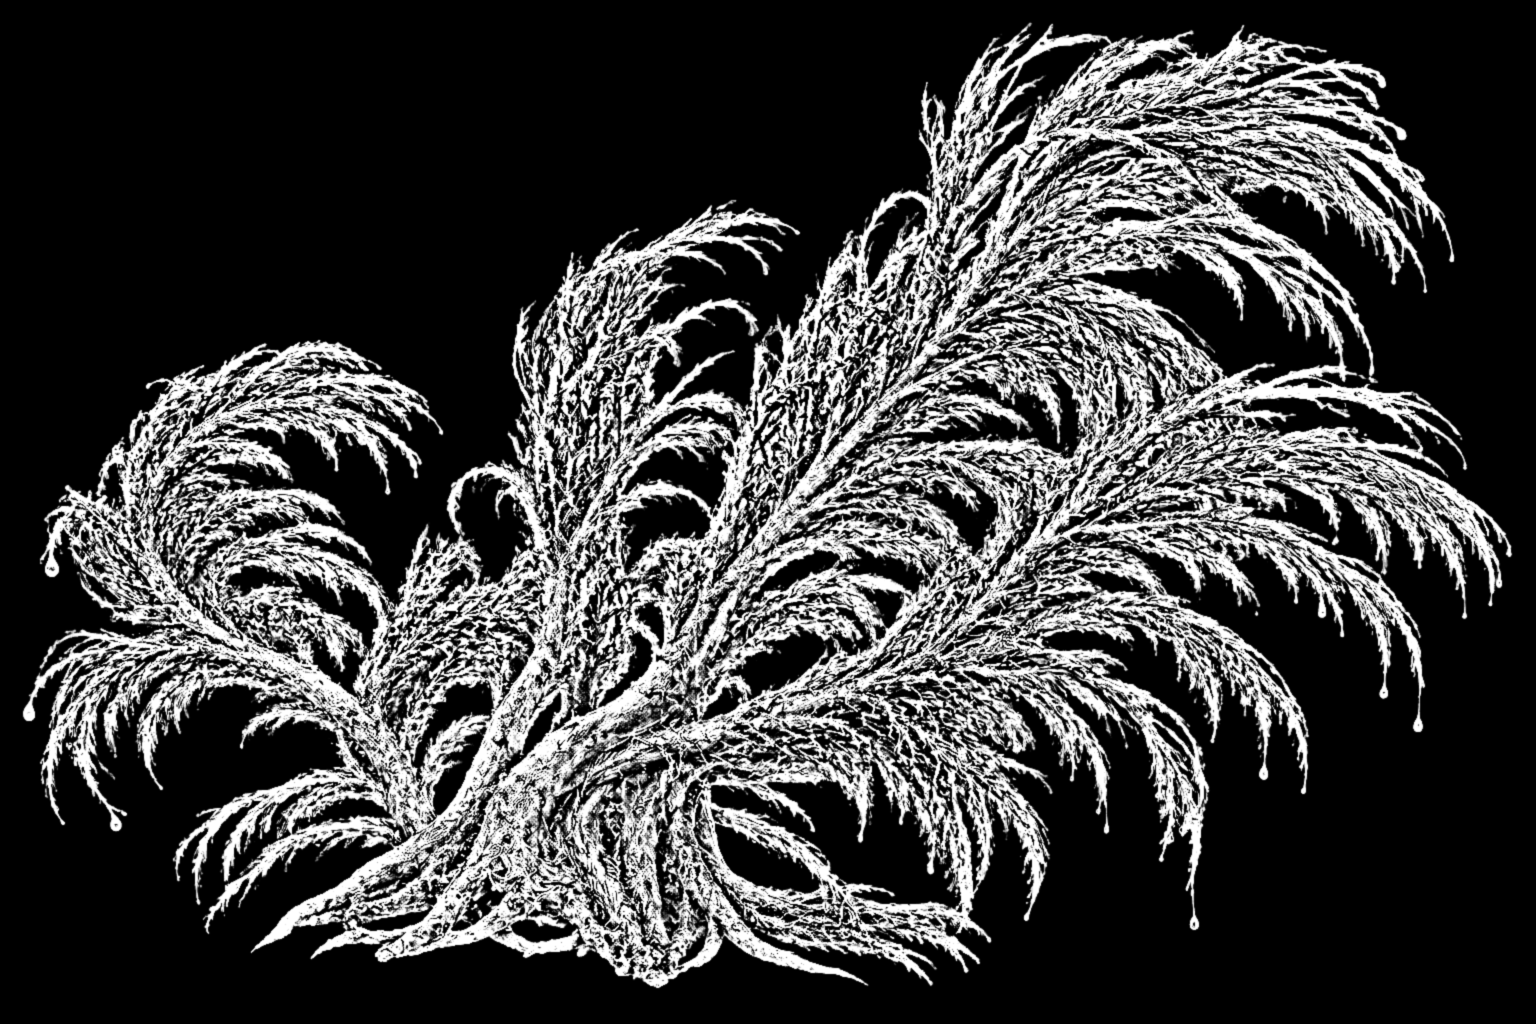
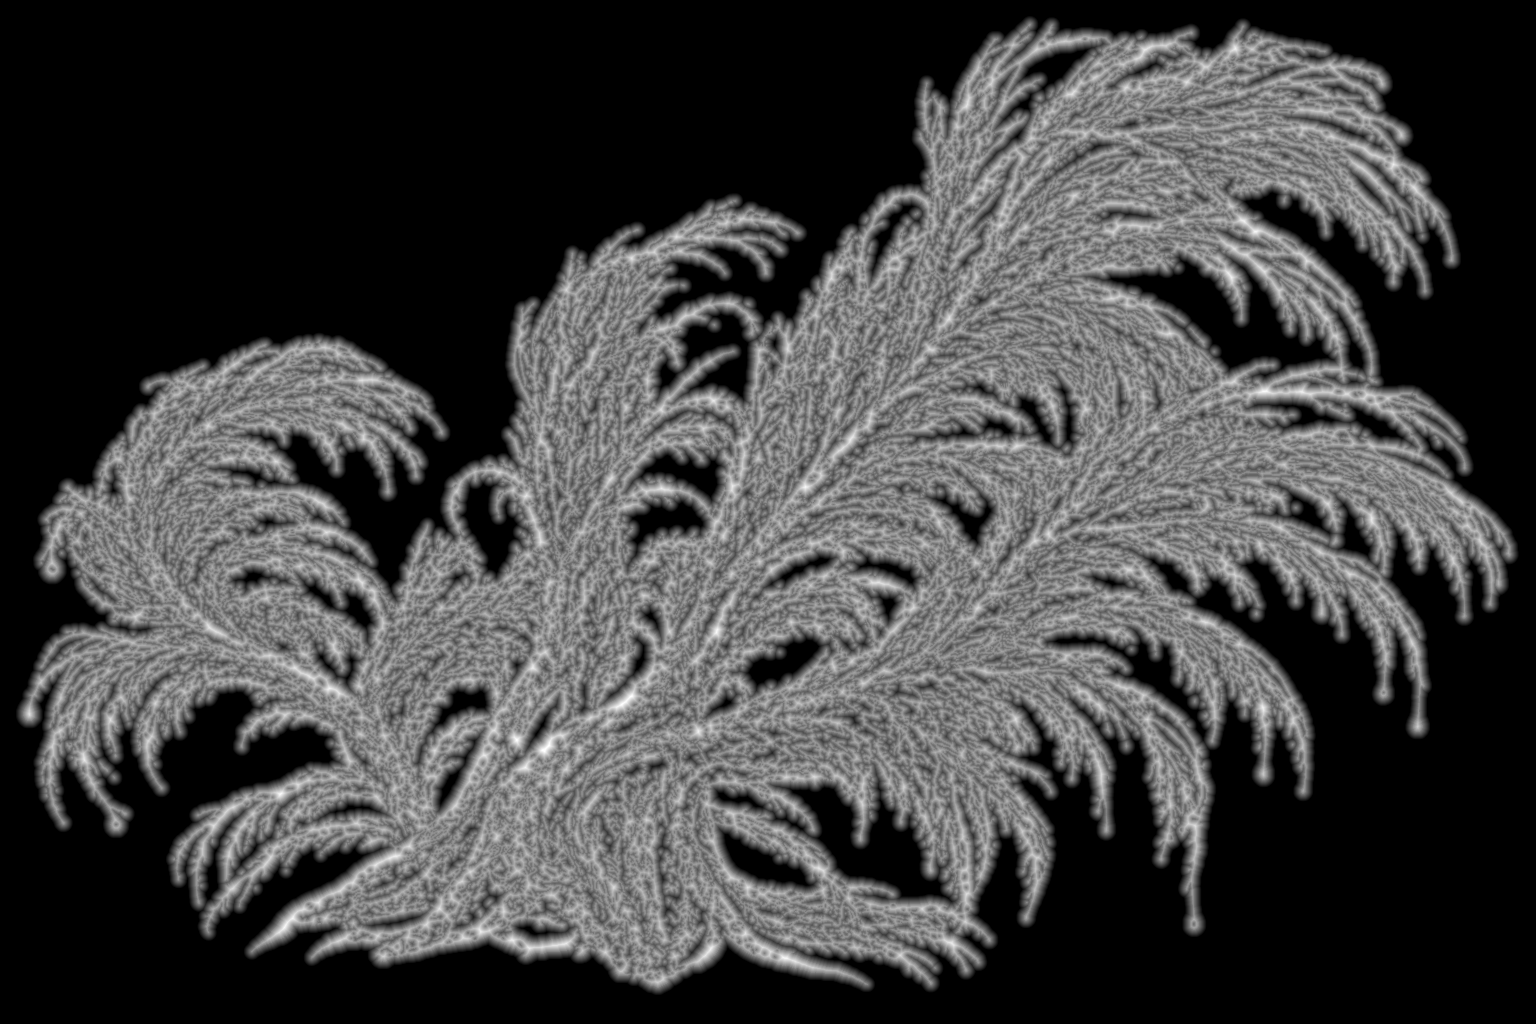
Breath life: plume cover as a distance, broken sprays, tassel in locks, calm water, dead one larger, channel greyer

diff --git a/src/places/breath/water/shaders.ts b/src/places/breath/water/shaders.ts
@@ -68,12 +68,12 @@ void main() {
   // Near the lens the small ripples show one by one.
   float close = smoothstep(120.0, 8.0, far);
   // The wind does not lie evenly on it: it is ruffled in patches that drift, and between them it is nearly glass.
-  float gust = smoothstep(0.3, 0.72, 0.65 * vnoise(xz * 0.13 + vec2(uTime * 0.035, uTime * 0.011)) + 0.35 * vnoise(xz * 0.61 - vec2(uTime * 0.05, 0.0)));
+  float gust = smoothstep(0.45, 0.8, 0.65 * vnoise(xz * 0.13 + vec2(uTime * 0.035, uTime * 0.011)) + 0.35 * vnoise(xz * 0.61 - vec2(uTime * 0.05, 0.0)));
   if (close > 0.0) {
     // Two sheets of them of unlike size and bearing, so no square of either shows.
     vec2 ra = texture2D(tRipple, vec2(xz.x * 0.829 - xz.y * 0.559, xz.x * 0.559 + xz.y * 0.829) * 0.37 + drift.yx * uTime * 0.07).rg - 0.5;
     vec2 rb = texture2D(tRipple, vec2(xz.x * 0.391 + xz.y * 0.92, -xz.x * 0.92 + xz.y * 0.391) * 0.113 + drift * uTime * 0.031).rg - 0.5;
-    slope = slope * (1.0 - 0.6 * close) + (ra * 0.55 + rb * 1.15) * close * (0.45 + 0.55 * deep) * (0.22 + 1.0 * gust);
+    slope = slope * (1.0 - 0.75 * close) + (ra * 0.4 + rb * 1.15) * close * (0.45 + 0.55 * deep) * (0.05 + 1.1 * gust);
   }
   // A hand's depth of water over a plate cannot carry a wave: it lies nearly flat, and shows the sky whole.
   slope *= 0.5 + 0.5 * smoothstep(0.02, 0.2, depth);
@@ -84,12 +84,12 @@ void main() {
 
   float nv = clamp(dot(n, v), 0.0, 1.0);
   // Water with small waves on it never mirrors whole, however low the eye: seen far off it shows the tilted faces, and they show more of the water's own colour.
-  float fresnel = min(0.02 + 0.98 * pow(1.0 - nv, 5.0), mix(0.62, 0.2, smoothstep(10.0, 90.0, far)));
+  float fresnel = min(0.02 + 0.98 * pow(1.0 - nv, 5.0), mix(0.62, 0.45, smoothstep(10.0, 90.0, far)));
   vec3 r = reflect(-v, n);
   r.y = abs(r.y) + 0.02 + 0.3 * smoothstep(8.0, 100.0, far);
   r = normalize(r);
   // Under a haze the water gives back less than the sky it faces: every small wave face shows some of the dark bed.
-  vec3 mirror = 0.6 * skyRadiance(r) * skyOpen(vWorld);
+  vec3 mirror = 0.7 * skyRadiance(r) * skyOpen(vWorld);
   // A face tipped toward the lens shows the dim sky overhead, one tipped away the bright fog at the horizon: that is what draws every ripple and ring.
   float tip = dot(slope - g3.rg * 0.1, normalize(v.xz));
   float drawn = 1.0 - 0.85 * tanh(3.4 * tip);
@@ -112,7 +112,7 @@ void main() {
   mirror += sunGlitter(r, far) * sunHere;
   // Sparks: here and there a facet smaller than a ripple turns the sun to the lens for a moment, far outside its path. Each is a point that lives a tenth of a second.
   float px = far * 2.0 / (uFrame.y * 1.6);
-  float lobe = pow(max(dot(r, uSunDir), 0.0), 5.0) * (0.3 + 0.7 * gust) * (0.4 + 2.2 * rings.b);
+  float lobe = pow(max(dot(r, uSunDir), 0.0), 22.0) * (0.3 + 0.7 * gust) * (0.4 + 2.2 * rings.b);
   float sparks = 0.0;
   float seen = smoothstep(0.012, 0.004, px);
   if (seen > 0.0 && lobe > 0.002) {
@@ -123,7 +123,7 @@ void main() {
       vec2 cellAt = xz / 0.022 + float(o) * 17.3;
       vec2 id = floor(cellAt);
       vec2 rnd = hash22(id + slot * 7.13);
-      float on = step(1.0 - 0.24 * lobe, hash12(id * 1.37 + slot * 3.1));
+      float on = step(1.0 - 0.14 * lobe * (0.25 + 0.75 * gust), hash12(id * 1.37 + slot * 3.1));
       float dot_ = smoothstep(0.34, 0.1, length(fract(cellAt) - 0.5 - 0.3 * (rnd - 0.5)));
       sparks += on * dot_ * life;
     }
@@ -137,9 +137,9 @@ void main() {
 
   // What is in the water: fine silt lit by the sky. The bed shows through it where it is thin.
   float path = depth / max(nv, 0.25);
-  vec3 through = exp(-path * vec3(3.0, 1.15, 1.45));
+  vec3 through = exp(-path * vec3(2.6, 1.9, 2.2));
   float clear = dot(through, vec3(0.3, 0.5, 0.2));
-  vec3 body = mix(vec3(0.16, 0.21, 0.18), vec3(0.15, 0.33, 0.28), smoothstep(0.08, 0.3, v.y)) * (0.45 + 7.0 * v.y * v.y) * (0.82 + 0.18 * drawn) * skyIrradiance(vec3(0.0, 1.0, 0.0)) / 3.14159 * skyOpen(vWorld);
+  vec3 body = mix(vec3(0.3, 0.29, 0.255), vec3(0.27, 0.275, 0.24), smoothstep(0.08, 0.3, v.y)) * (0.6 + 6.0 * v.y * v.y) * (0.82 + 0.18 * drawn) * skyIrradiance(vec3(0.0, 1.0, 0.0)) / 3.14159 * skyOpen(vWorld);
   // The line of weed and damp at the water's edge.
   float rim = smoothstep(0.16, 0.06, depth);
 

diff --git a/src/places/breath/plumes/cards.ts b/src/places/breath/plumes/cards.ts
@@ -68,7 +68,7 @@ export class Cards {
     const heart: V3 = [Math.sin(lean) * 0.3 * tall, 0.45 * tall, -Math.cos(lean) * 0.3 * tall];
     const heartLength = Math.hypot(heart[0], heart[1], heart[2]);
     /** One spray: rooted at a point, its sheet along a heading, leaning out of plumb by a tilt, bowed. Returns where a place of its picture is. */
-    const spray = (bx: number, by: number, bz: number, heading: number, wide: number, tilt: number, bend: number, mirror: boolean): void => {
+    const spray = (bx: number, by: number, bz: number, heading: number, wide: number, tilt: number, bend: number, mirror: boolean, droop: number, dead: boolean): void => {
       const dx = Math.sin(heading) * (mirror ? -1 : 1);
       const dz = -Math.cos(heading) * (mirror ? -1 : 1);
       const nx = Math.cos(heading);
@@ -78,7 +78,8 @@ export class Cards {
       const seed = rng.range(1, 90);
       const place = (s: number, t: number): V3 => {
         const a = (s - ROOT_S) * wide;
-        const b = (t - ROOT_T) * wide * ASPECT;
+        // One that droops hangs lower the further out it reaches.
+        const b = (t - ROOT_T) * wide * ASPECT - (droop * a * a) / wide;
         const off = (bend * a * a) / wide + Math.tan(tilt) * b;
         const x = bx + dx * a + nx * off;
         const z = bz + dz * a + nz * off;
@@ -98,7 +99,7 @@ export class Cards {
           const along = Math.min(1, Math.max(0, (rx * heart[0] + ry * heart[1] + rz * heart[2]) / (heartLength * heartLength)));
           const far = Math.hypot(rx - heart[0] * along, ry - heart[1] * along, rz - heart[2] * along) / (0.5 * tall);
           this.position.push(p[0], p[1], p[2]);
-          this.vane.push(s, t, seed, 0);
+          this.vane.push(s, t, seed, dead ? 1 : 0);
           this.sway.push(h, phase, Math.min(1, Math.abs(s - ROOT_S) * 1.2 * (wide / tall)), seed * 6.283);
           this.tint.push(smooth(0.1, 0.9, far), tone, Math.min(1, Math.hypot(rx, ry, rz) / tall), tall);
           this.root.push(root[0], root[1], root[2]);
@@ -117,18 +118,21 @@ export class Cards {
         this.ends.push({ at: p, stemAt: Math.min(1, Math.max(0, (p[1] - bush.y) / tall)), phase, tall, root });
       }
     };
-    // Three or four sprays that cross at the root, each a whole arching growth: sky is seen between them.
-    const sprays = bush.detail >= 1 ? 4 : 3;
+    // A few sprays that cross at the root, each a whole arching growth and no two alike: one or two long, the rest shorter on a long tail,
+    // some hanging low, and low down a dead one or two, brown and broken. Sky is seen between them.
+    const sprays = bush.detail >= 1 ? 5 : 3;
     for (let c = 0; c < sprays; c++) {
-      const k = (c + rng.range(0.3, 0.7)) / sprays - 0.5;
+      const k = (c + rng.range(0.25, 0.75)) / sprays - 0.5;
       // Combed toward the shaft by its breath: the widest spray lies along the lean, the others stand out to its sides.
-      const heading = lean + 2.7 * k + rng.range(-0.1, 0.1);
-      const wide = tall * rng.range(0.72, 0.95) * (1 - 0.4 * Math.abs(k));
+      const heading = lean + 2.9 * k + rng.range(-0.25, 0.25);
+      const long = 0.42 + 0.75 * rng.next() ** 2.2;
+      const wide = tall * long * (1 - 0.4 * Math.abs(k));
       const out = 0.03 * tall * rng.next();
       const about = rng.range(0, 6.283);
       const bx = bush.x + Math.sin(about) * out;
       const bz = bush.z + Math.cos(about) * out;
-      spray(bx, Math.max(bush.y, floor(bx, bz)) - 0.02 * tall, bz, heading, wide, 0.5 * k + rng.range(-0.12, 0.12), rng.range(-0.2, 0.2), c % 2 === 1);
+      const dead = bush.detail >= 1 && c === 1;
+      spray(bx, Math.max(bush.y, floor(bx, bz)) - 0.02 * tall, bz, heading, dead ? 0.45 * tall : wide, dead ? rng.range(0.9, 1.1) * (k < 0 ? -1 : 1) : 0.5 * k + rng.range(-0.25, 0.25), rng.range(-0.3, 0.3), c % 2 === 1, dead ? 0.5 : rng.next() ** 2 * 0.9, dead);
     }
   }
 

diff --git a/src/places/breath/plumes/shaders.ts b/src/places/breath/plumes/shaders.ts
@@ -52,9 +52,14 @@ const VANE_TEST = /* glsl */ `
   vec3 v = toEye / far;
   float px = uPixel * far;
   vec2 at = vVane.xy;
+  // The cover is a distance to the edge of a thread (0.5 at the edge, a sixteenth to a pixel of the picture): the edge is smooth however close the lens.
   float cover = texture2D(tPlumeA, at).r;
-  // Far off the threads are thinner than a pixel and would go: the spray is kept as full as it is near.
-  float cut = mix(0.5, 0.16, smoothstep(0.002, 0.012, px));
+  // Deep in the growth the threads lie on one another and nothing shows between them: the heart is whole and dark.
+  cover = max(cover, 0.75 * smoothstep(0.525, 0.565, texture2D(tPlumeA, at, 4.0).r));
+  // Far off the threads are thinner than a pixel and would go: there each is cut a little outside its edge, and the spray stays as full as it is near.
+  float cut = mix(0.5, 0.4, smoothstep(0.002, 0.012, px));
+  // Low down a few sprays are dead: broken short.
+  if (vVane.w > 0.5 && vnoise(at * vec2(9.0, 6.0) + vVane.z) > 0.55) discard;
   if (cover < cut) discard;
 `;
 
@@ -83,10 +88,13 @@ ${VANE_TEST}
   float most = max(told.r, max(told.g, told.b));
   float drop = smoothstep(0.4, 0.2, (most - min(told.r, min(told.g, told.b))) / max(most, 0.01)) * smoothstep(0.3, 0.55, most);
   albedo = mix(albedo, vec3(0.5, 0.47, 0.44), drop);
+  // The dead ones are brown and dry.
+  float dead = step(0.5, vVane.w);
+  albedo = mix(albedo, dot(told, vec3(0.5)) * vec3(0.5, 0.33, 0.22), dead);
   // How thick the spray is here: where its stems meet it is many threads deep, at its ends it is single ones.
-  float body = smoothstep(0.12, 0.45, texture2D(tPlumeA, at, 5.0).r);
+  float body = smoothstep(0.3, 0.55, texture2D(tPlumeA, at, 5.0).r);
   // The heart of the bush is near black: the threads shade each other where they are thick, at the stem and inside.
-  float occ = mix(1.0, 0.45, body) * mix(0.35, 1.0, within) * mix(0.4, 1.0, smoothstep(0.03, 0.4, reach));
+  float occ = mix(1.0, 0.3, body) * mix(0.35, 1.0, within) * mix(0.4, 1.0, smoothstep(0.03, 0.4, reach));
   // A thread is round and hangs: what light it turns is from above and from the side of the sun, not from the face of the sheet.
   float fine = dot(told, vec3(0.5, 0.3, 0.2));
   n = normalize(n * 0.5 + vec3(0.0, 0.55, 0.0) + (fine - 0.25) * 1.4 * normalize(vec3(uSunDir.x, 0.3, uSunDir.z)));
@@ -96,11 +104,11 @@ ${VANE_TEST}
   float against = clamp(dot(v, -uSunDir), 0.0, 1.0);
   float lit = sunAt(vWorld + vec3(0.0, 0.3, 0.0));
   float thinness = 1.0 - body;
-  float rim = smoothstep(0.95, cut, cover);
+  float rim = smoothstep(cut + 0.14, cut, cover);
   float glow = (0.15 + 0.85 * thinness) * (0.35 + 0.65 * rim) * (0.25 + 0.75 * smoothstep(0.1, 0.6, reach)) * (0.25 + 0.75 * within) * (0.07 + 0.93 * against * against);
   // Far off a bush is one dark wine mass: the glow is in single threads, and none is seen there.
   float close = mix(0.25, 1.0, smoothstep(0.02, 0.004, px));
-  colour += vec3(1.0, 0.07, 0.015) * uSunColour * (0.85 * glow * lit * close) * (0.35 + 1.6 * dot(told, vec3(0.33)));
+  colour += vec3(1.0, 0.07, 0.015) * uSunColour * (0.85 * glow * lit * close * (1.0 - 0.8 * dead)) * (0.35 + 1.6 * dot(told, vec3(0.33)));
   // Wet: the drop at the end of a thread turns the sun to the lens, and here and there a thread does.
   float glint = smoothstep(0.95, 0.995, vnoise(at * vec2(700.0, 500.0) + vVane.z)) * smoothstep(0.003, 0.001, px);
   colour += uSunColour * vec3(1.0, 0.8, 0.6) * (glint * (0.02 + 0.4 * pow(against, 6.0)) + drop * (0.12 + 1.2 * pow(against, 3.0))) * lit;
@@ -117,6 +125,7 @@ varying vec4 vVane;
 varying vec4 vTint;
 uniform float uPixel;
 uniform sampler2D tPlumeA;
+${NOISE_GLSL}
 void main() {
 ${VANE_TEST}  gl_FragColor = vec4(0.0);
 }`;

diff --git a/src/places/breath/waders/animal.ts b/src/places/breath/waders/animal.ts
@@ -342,14 +342,15 @@ export class Wader {
       const strand = {
         angle: (clump / 12) * Math.PI * 2 + hash(seed + clump * 5.3) * 0.5 + (hash(seed + n * 1.7) - 0.5) * 0.3,
         out: (0.15 + 0.85 * hash(seed + clump * 2.9)) * (0.8 + 0.4 * hash(seed + n * 2.9)),
-        len: b.tendrilLen * (0.35 + 0.85 * hash(seed * 1.3 + n * 5.1)),
+        // The strands of one lock are nearly of a length: the lock ends in a wet point.
+        len: b.tendrilLen * (0.45 + 0.75 * hash(seed * 1.3 + clump * 5.1)) * (0.72 + 0.28 * hash(seed * 1.3 + n * 5.1)),
         stiff: 0.2 + 0.6 * hash(seed + n * 9.7),
         phase: hash(seed + n * 4.3) * 6.28,
         // Wet, the strands of one lock hang as one: they kink together.
         lock: hash(seed * 1.9 + clump * 7.7) * 6.28,
         // Most root at the very end of the neck, the rest a little way back up it: a mop, not a brush in a ferrule.
         root: 1 - 0.1 * hash(seed + n * 8.9) ** 1.5,
-        thick: far ? 1 : 0.55 + 0.75 * hash(seed + n * 12.7) ** 2,
+        thick: far ? 1 : 0.5 + 0.5 * hash(seed + n * 12.7) ** 2,
       };
       this.strands.push(strand);
       for (let i = 0; i < tRings; i++) {
@@ -823,7 +824,7 @@ export class Wader {
       let z = (pts[r0 * 3 + 2] as number) * (1 - rf) + (pts[r0 * 3 + 5] as number) * rf + oz * rad;
       const splay = 0.3 * st.out + 0.5 * back;
       const each = st.len / (tube.rings - 1);
-      const swing = 0.07 * Math.sin(seconds * 1.6 + st.phase) + 0.04 * Math.sin(seconds * 3.7 + st.phase * 2.3);
+      const swing = 0.07 * Math.sin(seconds * 1.6 + st.lock) + 0.04 * Math.sin(seconds * 3.7 + st.lock * 2.3);
       let px = x;
       let py = y;
       let pz = z;
@@ -846,8 +847,8 @@ export class Wader {
           dx += wet ? 0.3 * Math.sin(seconds * 1.3 + st.phase + u * 3) : 0;
         }
         // No strand hangs straight: each is kinked and curled its own way, more toward its end.
-        const curl = (0.12 + 0.6 * u) * (0.3 * Math.sin(u * 5 + st.lock * 5) + 0.2 * Math.sin(u * 13 + st.lock * 11));
-        const own = (0.06 + 0.36 * u) * (0.12 * Math.sin(u * 19 + st.phase * 11) + 0.1 * Math.sin(u * 41 + st.phase * 17));
+        const curl = (0.1 + 0.45 * u) * (0.3 * Math.sin(u * 5 + st.lock * 5) + 0.2 * Math.sin(u * 13 + st.lock * 11));
+        const own = (0.3 - 0.24 * u) * (0.12 * Math.sin(u * 19 + st.phase * 11) + 0.1 * Math.sin(u * 41 + st.phase * 17));
         dx += Math.cos(st.lock * 3) * curl + Math.cos(st.phase * 3) * own;
         dz += Math.sin(st.lock * 3) * curl + Math.sin(st.phase * 3) * own;
         dy += 0.35 * curl * Math.sin(st.lock * 7);

diff --git a/src/places/breath/dead/ground.ts b/src/places/breath/dead/ground.ts
@@ -41,9 +41,9 @@ void main() {
   float fine = vnoise(vWorld.xz * 17.0);
   float d = vNear + 0.5 * (broad - 0.5) + 0.07 * (fine - 0.5);
   // What ran out of it has soaked the rock dark, darkest under it; where its edge dried there is a pale broken line of salt.
-  float stain = smoothstep(0.42, 0.0, d);
+  float stain = smoothstep(0.6, 0.0, d);
   float salt = smoothstep(0.07, 0.0, abs(d - 0.45)) * smoothstep(0.3, 0.7, fine);
-  float alpha = max(0.88 * stain * (0.6 + 0.4 * broad), 0.4 * salt);
+  float alpha = max(0.95 * stain * (0.7 + 0.3 * broad), 0.4 * salt);
   if (alpha < 0.004) discard;
   vec3 albedo = mix(vec3(0.62, 0.6, 0.56), mix(vec3(0.05, 0.03, 0.025), vec3(0.1, 0.032, 0.026), fine), smoothstep(0.0, 0.25, stain));
   vec3 colour = rigShade(vWorld, vec3(0.0, 1.0, 0.0), v, albedo, mix(0.9, 0.5, stain), 1.0);
@@ -93,10 +93,10 @@ export function makeGround(ctx: Context, world: (p: V3) => V3, lines: readonly (
   };
 
   // The stain: a sheet laid on the rock, a finger above it.
-  const x0 = -3.3;
-  const x1 = 3.3;
-  const z0 = -2.6;
-  const z1 = 2.8;
+  const x0 = -3.9;
+  const x1 = 3.9;
+  const z0 = -3.0;
+  const z1 = 3.3;
   const nx = 80;
   const nz = 66;
   const positions = new Float32Array((nx + 1) * (nz + 1) * 3);

diff --git a/src/places/breath/waders/material.ts b/src/places/breath/waders/material.ts
@@ -238,11 +238,11 @@ void main() {
     float finger = step(1.5, vInfo.x);
     float tone = fract(vInfo.x);
     float own = hash12(vec2(seed, 9.0));
-    vec3 flesh = mix(vec3(0.6, 0.4, 0.34), vec3(0.78, 0.59, 0.51), own);
+    vec3 flesh = mix(vec3(0.7, 0.5, 0.43), vec3(0.86, 0.69, 0.6), own);
     vec3 blood = mix(vec3(0.2, 0.05, 0.045), vec3(0.4, 0.14, 0.12), tone);
-    albedo = mix(flesh, blood, step(0.72, own) * smoothstep(0.0, 0.25, u) * 0.6);
+    albedo = mix(flesh, blood, step(0.85, own) * smoothstep(0.0, 0.25, u) * 0.4);
     albedo = mix(albedo, vec3(0.62, 0.36, 0.33), smoothstep(0.2, 0.0, u));
-    albedo = mix(albedo, vec3(0.17, 0.09, 0.06), smoothstep(0.45, 1.0, u) * (0.55 + 0.4 * tone));
+    albedo = mix(albedo, vec3(0.2, 0.12, 0.08), smoothstep(0.4, 1.0, u) * (0.6 + 0.35 * tone));
     // Some of what hangs there is weed it has dragged up: dark, olive.
     albedo = mix(albedo, vec3(0.1, 0.095, 0.045), step(0.93, hash12(vec2(seed, 5.0))) * smoothstep(0.1, 0.3, u));
     // A finger: the neck's own pale flesh, pinker down its length, raw and dark at the very end.

diff --git a/src/places/breath/dead/index.ts b/src/places/breath/dead/index.ts
@@ -15,8 +15,8 @@ export const PARTS: readonly string[] = ['dead-wader'];
 type V3 = [number, number, number];
 
 /** The picture: metres across and up it, where in it (across, and up from its foot) the animal's middle and its lowest hoof are. */
-const WIDE = 4.667;
-const TALL = 2.627;
+const WIDE = 5.5;
+const TALL = 3.096;
 const MID = 0.56;
 const FOOT = 0.25;
 /** Staged: the lens of the key at the rim (breath-2, shot breath-05), from the place's own list of cameras. The picture was made for it. */
@@ -86,7 +86,7 @@ ${CUT}
   vec3 albedo = texture2D(tCarcass, vAt).rgb;
   // Parchment: the colour has gone out of it. Dark and damp where it lies on the rock, salt on what faces up.
   float grey = dot(albedo, vec3(0.3, 0.5, 0.2));
-  albedo = mix(albedo, grey * vec3(1.0, 0.95, 0.87), 0.2) * 1.5;
+  albedo = mix(albedo, grey * vec3(1.0, 0.95, 0.87), 0.35) * 1.5;
   albedo *= 0.9 + 0.2 * fbm(vWorld.xz * 6.0);
   albedo *= 0.6 + 0.4 * smoothstep(0.0, 0.05, lift);
   float salt = smoothstep(0.55, 0.8, fbm(vWorld.xz * 11.0 + 3.0) + 0.25 * n.y - 0.1);

diff --git a/assets-src/breath/plumes/make_spray.py b/assets-src/breath/plumes/make_spray.py
@@ -26,5 +26,11 @@ for radius in (1, 2, 4, 8, 16, 32):
     weight[take] = 1
 out = np.where((thread > 0.6)[..., None], rgb, colour)
 Image.fromarray((np.clip(out, 0, 1) * 255 + 0.5).astype(np.uint8)).save('public/assets/breath/plumes/spray.jpg', quality=92)
-Image.fromarray((np.clip(thread, 0, 1) * 255 + 0.5).astype(np.uint8)).save('public/assets/breath/plumes/spray-a.png', optimize=True)
+# The cover is stored as a distance: 128 at the edge of a thread, 16 to a pixel, so that the edge stays smooth where the lens is so
+# close that a pixel of the picture is several of the frame, and a thread can be drawn a little fatter far off by cutting lower.
+big = np.asarray(Image.fromarray((np.clip(thread, 0, 1) * 255).astype(np.uint8)).resize((thread.shape[1] * 3, thread.shape[0] * 3), Image.BICUBIC)).astype(np.float32) / 255
+inside = big > 0.5
+distance = (ndimage.distance_transform_edt(inside) - ndimage.distance_transform_edt(~inside)) / 3
+distance = ndimage.zoom(distance, 1 / 3, order=1)
+Image.fromarray(np.clip(128 + 16 * distance, 0, 255).astype(np.uint8)).save('public/assets/breath/plumes/spray-a.png', optimize=True)
 print('threads cover', float((thread > 0.5).mean()))

diff --git a/assets-src/breath/plumes/RECIPE.md b/assets-src/breath/plumes/RECIPE.md
@@ -8,4 +8,4 @@ The colour of the plume picture, carried outward from every thread into the blac
 
 ## public/assets/breath/plumes/spray-a.png
 
-The cover the sprays are cut by: where the picture is not dark and is brighter than what lies round it (92 percent of its own mean over 7 pixels), inside the given cover, softened by 0.6 of a pixel. It follows the single threads and leaves the gaps between them open, which the given cover does not. 1536 x 1024, one channel.
+The cover the sprays are cut by: where the picture is not dark and is brighter than what lies round it (92 percent of its own mean over 7 pixels), inside the given cover, softened by 0.6 of a pixel. It follows the single threads and leaves the gaps between them open, which the given cover does not. It is stored as a distance to the edge of the thread: 128 at the edge, 16 to a pixel of the picture, more inside. 1536 x 1024, one channel.
